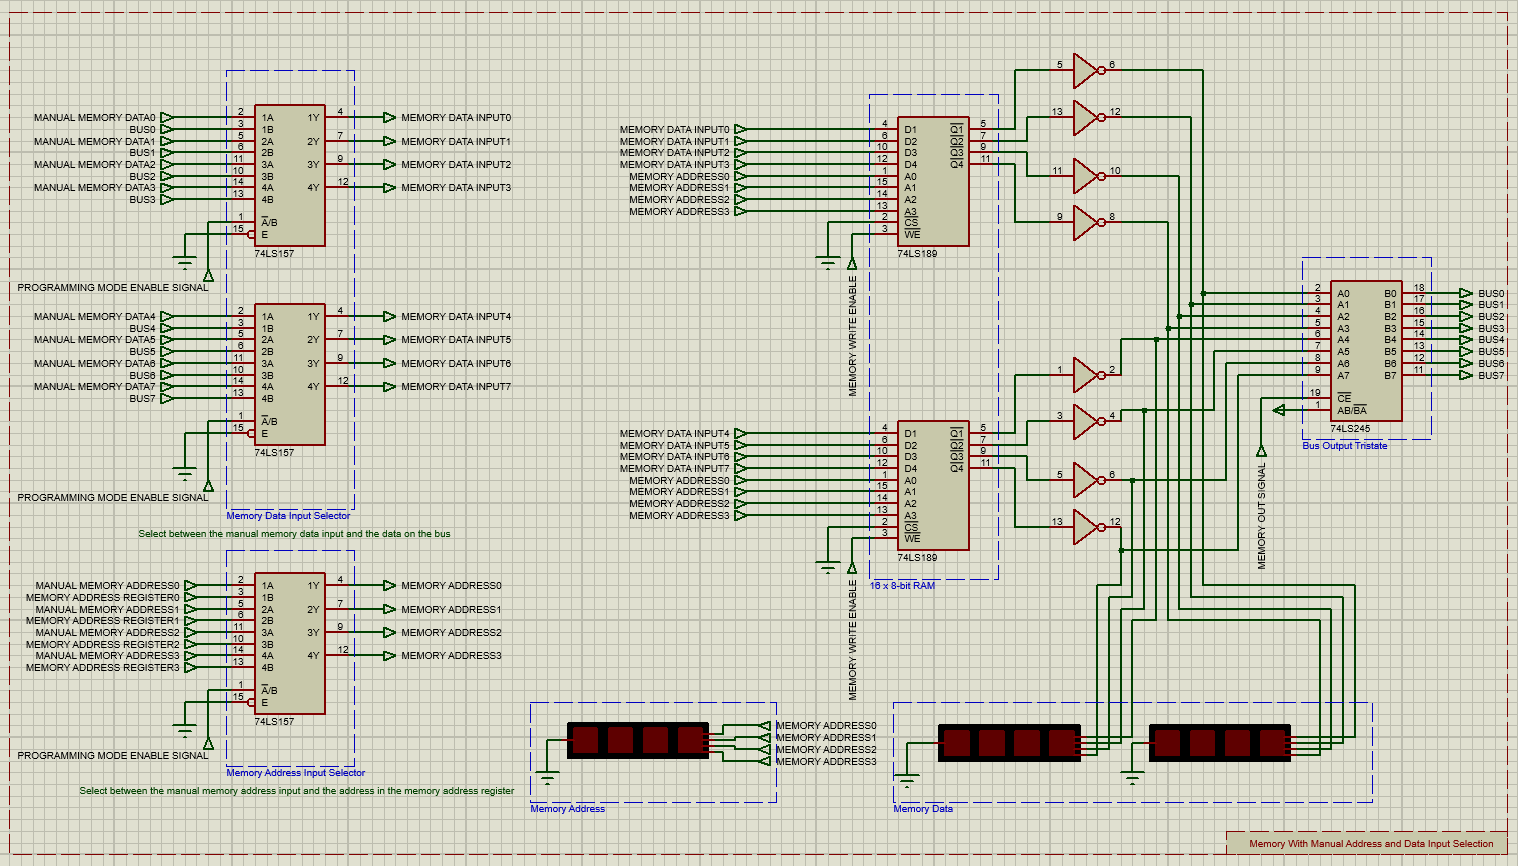
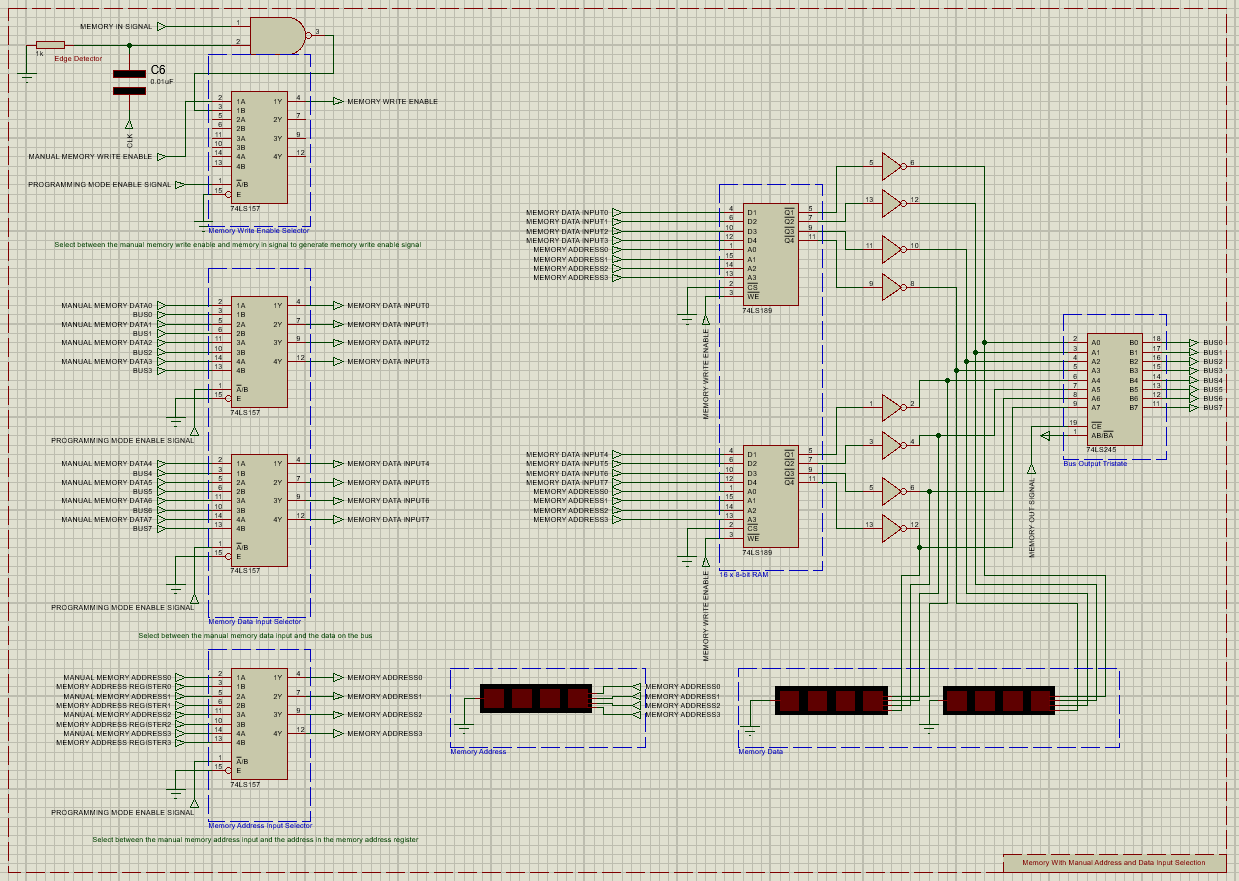
Update README.md memory module due to schematic change Update the new memory module schematic image from Proteus project

diff --git a/README.md b/README.md
@@ -167,25 +167,28 @@ The **register**'s output is connected to the **Memory Address Input Selector**
 
 The **Memory** is connected to the [Bus](#bus) through a _Tristate_
 
-The inputs **(Memory Data Input and Memory Address)** to the **Memory** is the outputs of the **Memory Data Input Selector/Multiplexer** and **Memory Address Input Selector/Multiplexer** where the:
+The inputs **(Memory Data Input, Memory Address, and Memory Write Enable)** to the **Memory** is the outputs of the **Memory Data Input Selector/Multiplexer, Memory Address Input Selector/Multiplexer, and Memory Write Enable Selector/Multiplexer** where the:
 
 - **Memory Data Input Selector/Multiplexer**: Decides whether the _manual memory data input_ or _the data on the [Bus](#bus)_ will be used as an input to the **Memory**
 
 - **Memory Address Input Selector/Multiplexer**: Decides whether the _manual memory address input_ or _the address in the [Memory Address Register](#memory-address-register)_ will be used as an input to the **Memory**
 
-Both **Selectors/Mutliplexers** selects the input to the **Memory** based on the **Programming Mode Enable Signal**
+- **Memory Write Enable Selector/Multiplexer**: Decides whether the _manual memory write enable_ or _the **Memory In Signal** with the positive edge of the clock_ will be used as an input to the **Memory**
+
+All **Selectors/Mutliplexers** selects the input to the **Memory** based on the **Programming Mode Enable Signal**
 
 ### Main Components
 - 2 X 74LS189 ( 64-Bit Random Access Read/Write Memory )
-- 3 X 74LS157 ( Quadruple 1-of-2 Data Selectors/Multiplexers )
+- 4 X 74LS157 ( Quadruple 1-of-2 Data Selectors/Multiplexers )
 - 74LS245 ( Octal Bus Transceivers With Tristate Outputs )
 
 ### Memory Signals
-|           **Signal**           |                         **Functionality**                         |
-|:------------------------------:|:-----------------------------------------------------------------:|
-|        Memory Out Signal       |            Output **Memory** content to the [Bus](#bus)           |
-|       Memory Write Enable      | Write the **Data** to the **Memory** at the specified **Address** |
-| Programming Mode Enable Signal |  Selects between the inputs of the two **Selectors/Multiplexers** |
+|           **Signal**           |                                     **Functionality**                                    |
+|:------------------------------:|:----------------------------------------------------------------------------------------:|
+|        Memory Out Signal       |                       Output **Memory** content to the [Bus](#bus)                       |
+|        Memory In Signal        | Generates the **Memory Write Enable Pulse** with the **[Clock](#clock)'s positive edge** |
+|       Memory Write Enable      |             Write the **Data** to the **Memory** at the specified **Address**            |
+| Programming Mode Enable Signal |             Selects between the inputs of the two **Selectors/Multiplexers**             |
 
 ### Schematic
 ![Memory Module](img/Memory_Module.png)
